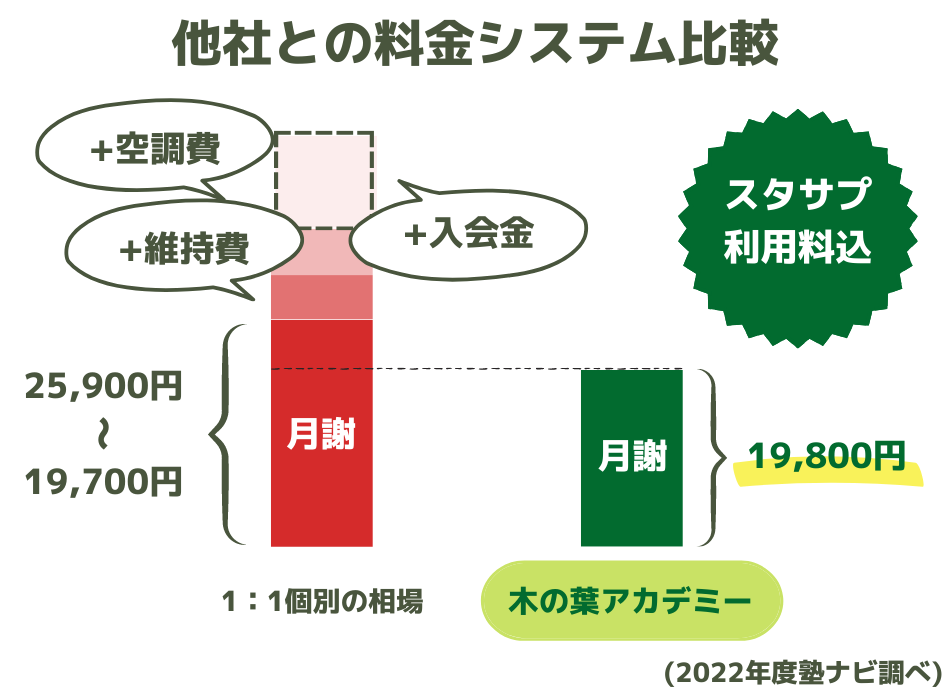
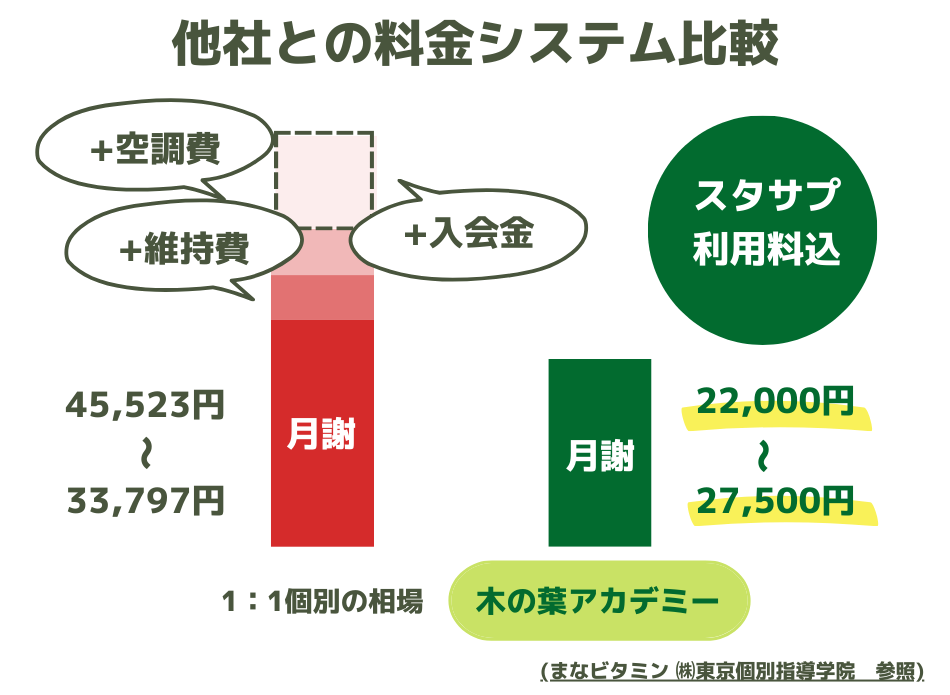
月謝比較画像新料金に変更、授業の流れ修正

diff --git a/index.html b/index.html
@@ -910,8 +910,8 @@
        <div class="img_flow">  
 <img src="images/flow04.png" width="100%" alt=""/>          </div>
        <div class="txt_flow">  
-           <span class="step">STEP4</span><span class="b big">対面授業で定着度を確認</span><br>
-           前回の内容が定着しているのかをチェックします。理解度に合わせてその後の授業内容や宿題の内容を変えていきます。
+           <span class="step">STEP4</span><span class="b big">宿題の完了報告</span><br>
+           勉強習慣を確立し、定着度を高めるため、課題が終わったら報告をしてもらっています。
          </div>
       <div class="clearfix"></div>
 
@@ -921,7 +921,7 @@
        <div class="img_flow">  
 <img src="images/flow05.png" width="100%" alt=""/>          </div>
        <div class="txt_flow">  
-          <span class="step">STEP5</span><span class="b big">個別授業</span><br>
+          <span class="step">STEP5</span><span class="b big">対面授業で定着度を確認</span><br>
            対面授業の前に確認テストを実施。分からないところは１問単位で解説していきます。苦手や学校の勉強の進度に合わせて次の週のスケジュールを講師が作成します。</div>
           <div class="clearfix"></div>
          
